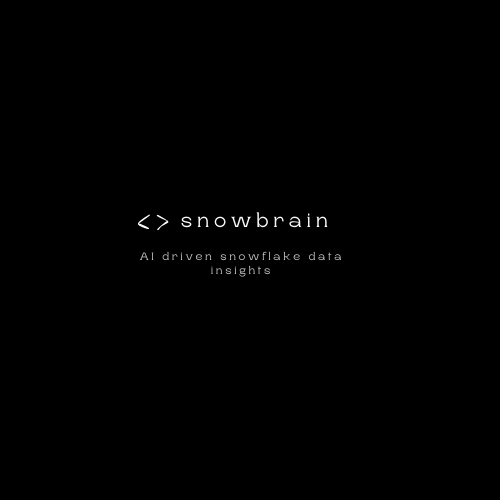
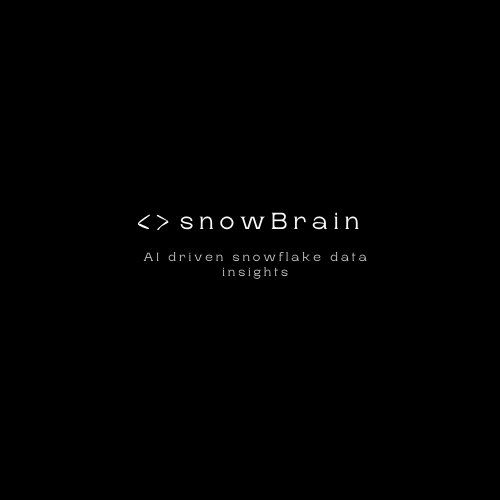
Update website ID

Changed region(s): [[0.36, 0.42, 0.72, 0.48], [0.27, 0.51, 0.75, 0.57]]

diff --git a/src/app/layout.tsx b/src/app/layout.tsx
@@ -8,8 +8,8 @@ import "./globals.css";
 
 const inter = Inter({ subsets: ["latin"] });
 
-const title = "snowbrain";
-const description = `snowbrain - AI Driven snowflake data insights`;
+const title = "snowBrain";
+const description = `snowBrain - AI Driven snowflake data insights`;
 
 export const metadata: Metadata = {
   title,
@@ -35,12 +35,7 @@ export default function RootLayout({
 }) {
   return (
     <html lang="en">
-      <Script
-        async
-        id="umami"
-        src="https://umami-livid-seven.vercel.app/script.js"
-        data-website-id="a626f755-5202-4315-8841-43dfa42676df"
-      ></Script>
+      <Script async src="https://umami-livid-seven.vercel.app/script.js" data-website-id="b0156ebc-cb72-4891-9ce8-4b7a71c5ca0e"></Script>
       <ClerkProvider>
         <body className={inter.className}>
           <TokenCountProvider>

diff --git a/src/app/chat/page.tsx b/src/app/chat/page.tsx
@@ -335,7 +335,7 @@ const Page = () => {
       >
         <Header
           openSidebarClick={openSidebar}
-          title={activeChat ? activeChat.title : "snowbrain"}
+          title={activeChat ? activeChat.title : "snowBrain"}
           newChatClick={handleNewChat}
         />
 

diff --git a/README.md b/README.md
@@ -1,4 +1,4 @@
-# snowbrain
+# snowBrain
 
 [![Deploy with Vercel](https://vercel.com/button)](https://vercel.com/new/clone?repository-url=https://github.com/kaarthik108/snowbrain&project-name=snowbrain&repo-name=snowbrain)
 
@@ -33,7 +33,7 @@ https://github.com/kaarthik108/snowbrain/assets/53030784/d4273bea-4494-438d-bce3
 
 ## Example Queries
 
-snowbrain is designed to make complex data querying simple. Here are some example queries you can try:
+snowBrain is designed to make complex data querying simple. Here are some example queries you can try:
 
 - **Total revenue per product category**: "Show me the total revenue for each product category."
 - **Top customers by sales**: "Who are the top 10 customers by sales?"
@@ -43,7 +43,7 @@ snowbrain is designed to make complex data querying simple. Here are some exampl
 
 ## Installation
 
-Follow these steps to get **snowbrain** up and running in your local environment.
+Follow these steps to get **snowBrain** up and running in your local environment.
 
 1. **Update Environment Variables**
 
